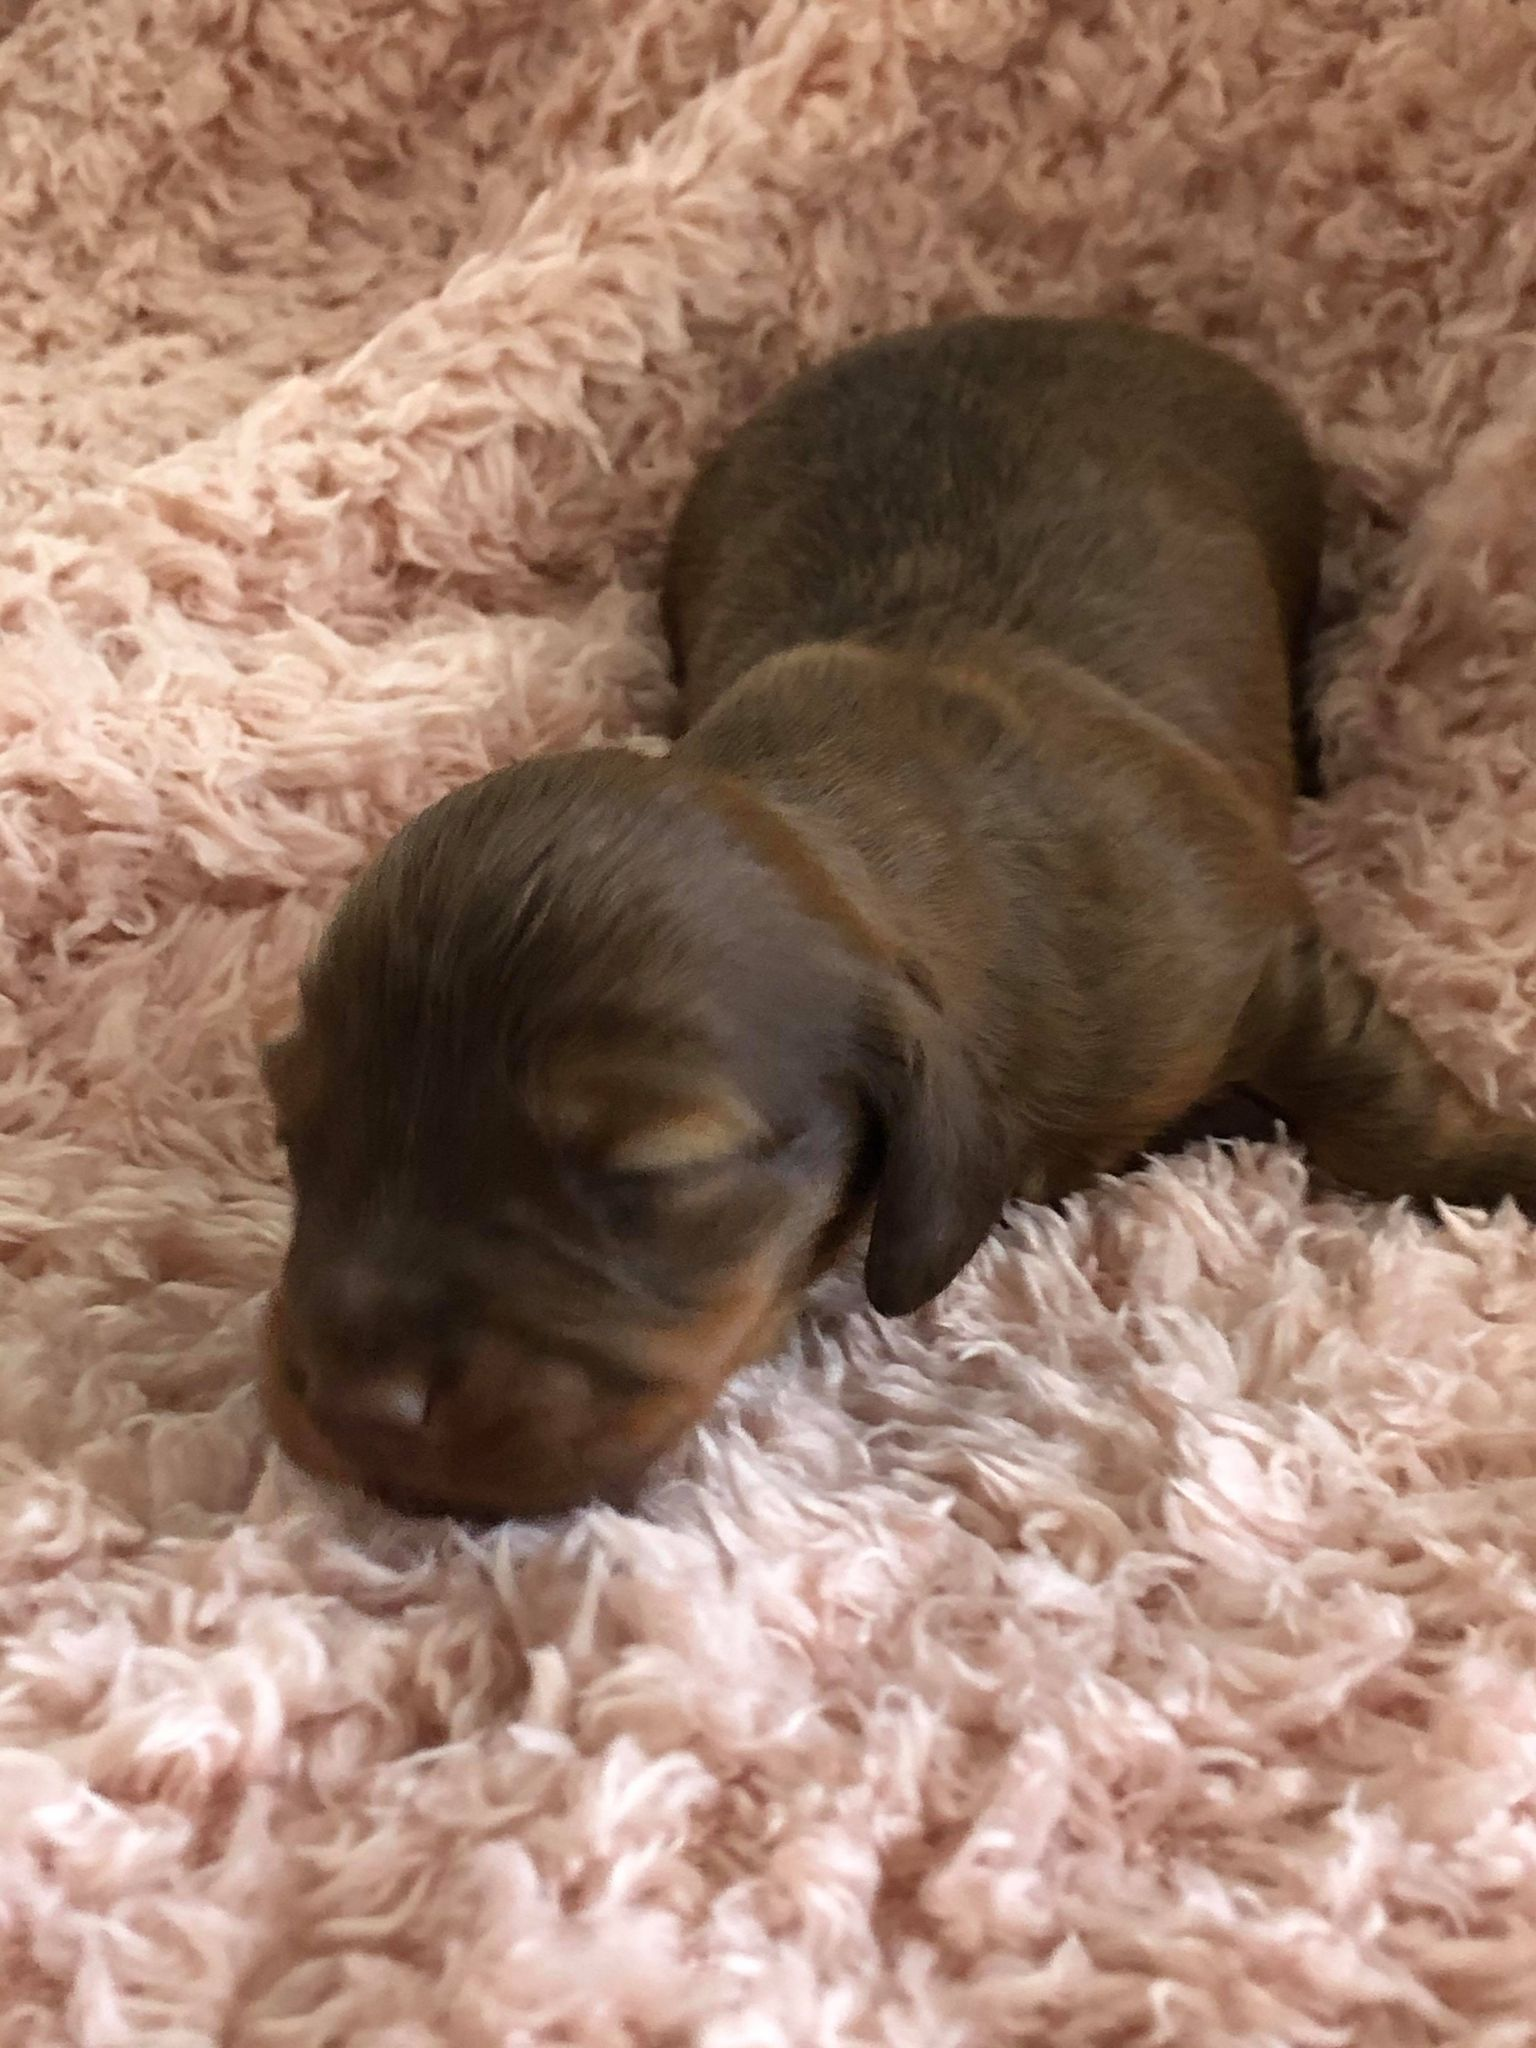
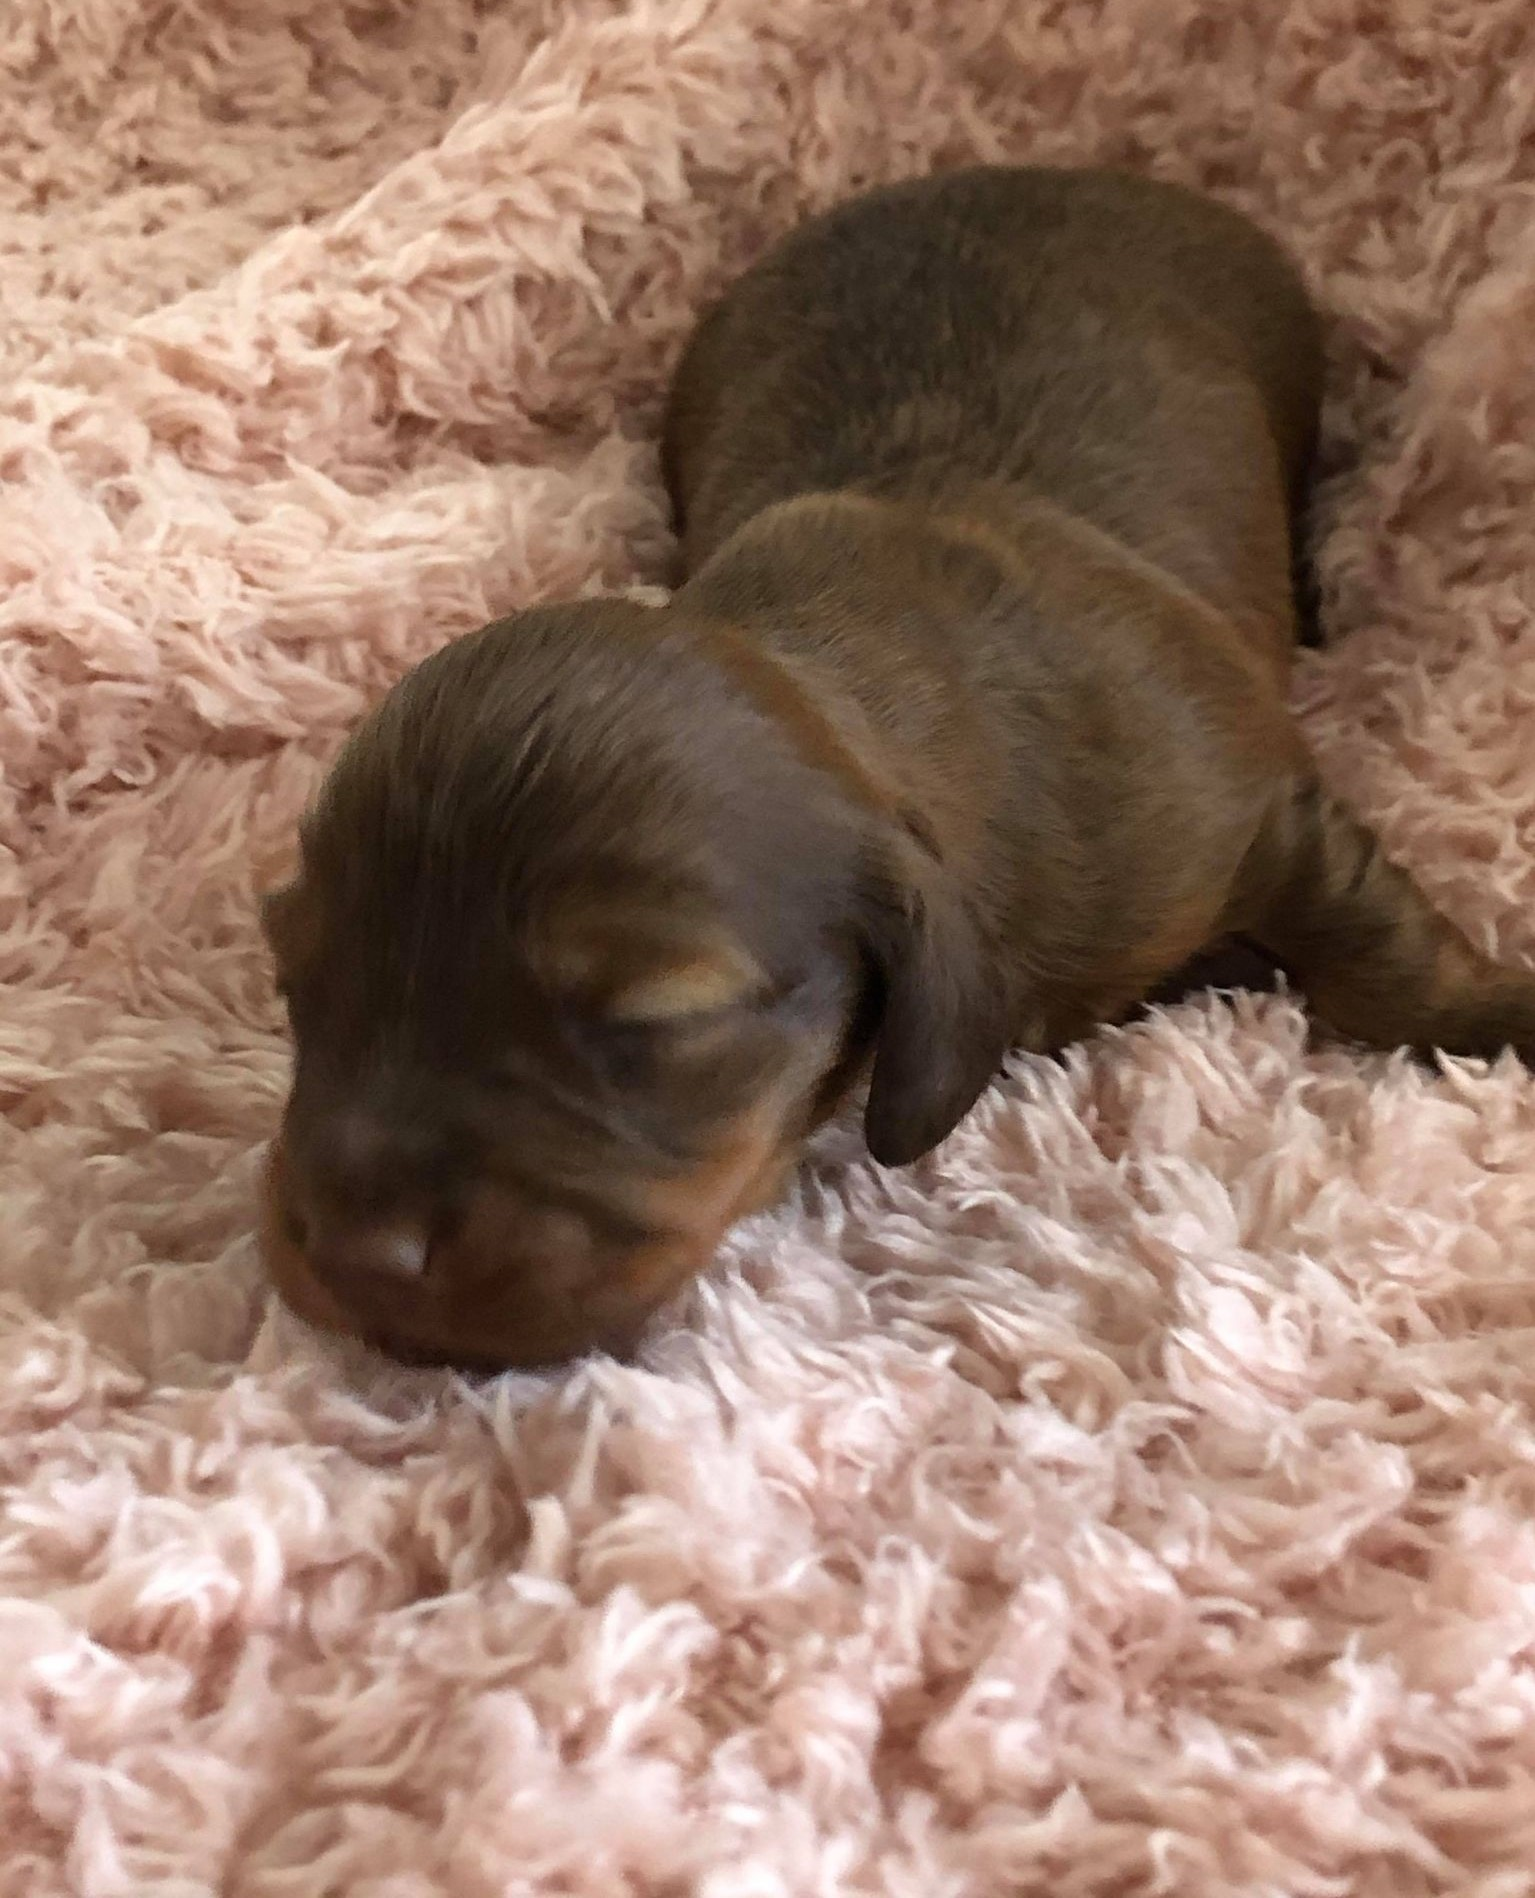
edit position of puppy prof pics

diff --git a/assets/css/style.css b/assets/css/style.css
@@ -293,7 +293,7 @@ nav.black .nav-link:hover{
 
 .stayTunedParagraph {
     display: block;
-    font-size: 18px;
+    font-size: 1x8px;
     font-weight: 500;
     text-align: center;
     margin: 50px 10px 50px 10px;

diff --git a/index.php b/index.php
@@ -743,8 +743,7 @@
                     <div class="col-sm-5 col-md-5">
                         <div class="expectingContent">
                             <div class="expectingPic">
-                                <img src="assets/img/honeyprof.jpg" a
-                                lt="honey" class="expectingPic2">
+                                <img src="assets/img/honeyprof.jpg" alt="honey" class="expectingPic2">
                                 <br>
                             </div>
                         </div>
